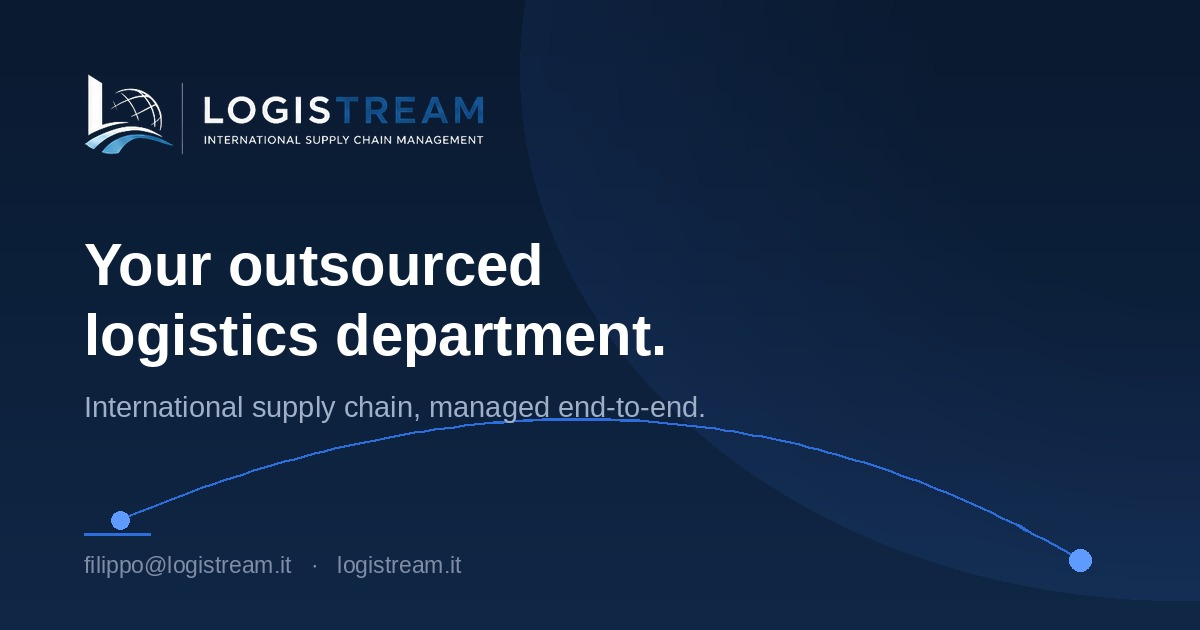
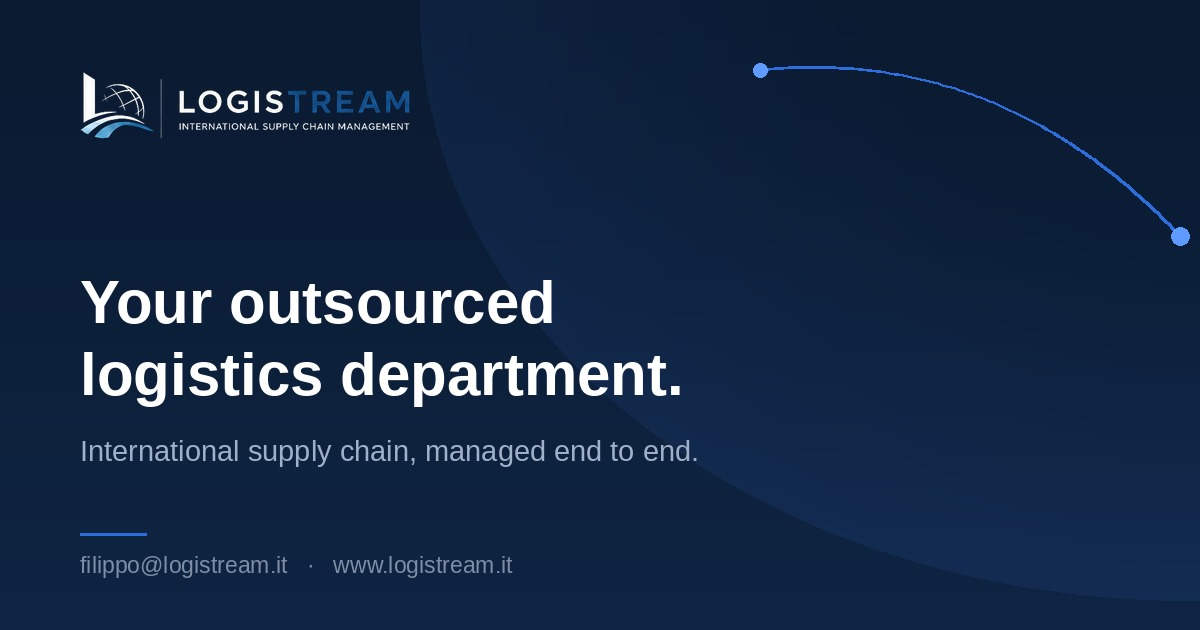
Aggiornamento sito

diff --git a/index.html b/index.html
@@ -3,8 +3,8 @@
 <head>
   <meta charset="utf-8">
   <meta name="viewport" content="width=device-width, initial-scale=1">
-  <title>Outsourced Logistics Management for SMEs | Logistream</title>
-  <meta name="description" content="Independent international logistics management for SMEs. Supplier coordination, freight procurement and end-to-end supply chain control across ocean, air and road.">
+  <title>Outsourced Logistics Management | Logistream</title>
+  <meta name="description" content="Independent logistics management for importers with many suppliers and no logistics department. Supplier coordination, freight procurement and end-to-end control.">
   <meta property="og:title" content="Logistream | Your Outsourced Logistics Department">
   <meta property="og:description" content="International logistics managed from purchase order to final delivery.">
   <meta property="og:type" content="website">
@@ -31,9 +31,9 @@
   <meta name="author" content="Filippo Barra">
   <link rel="preload" href="assets/fonts/manrope-latin-700-normal.woff2" as="font" type="font/woff2" crossorigin>
   <link rel="preload" href="assets/fonts/dm-sans-latin-400-normal.woff2" as="font" type="font/woff2" crossorigin>
-  <link rel="stylesheet" href="assets/styles.css?v=20260723e">
-  <script defer src="assets/script.js?v=20260723e"></script>
-  <script defer src="assets/analytics.js?v=20260723e"></script>
+  <link rel="stylesheet" href="assets/styles.css?v=20260724b">
+  <script defer src="assets/script.js?v=20260724b"></script>
+  <script defer src="assets/analytics.js?v=20260724b"></script>
 </head>
 <body>
 <header class="site-header" id="top">
@@ -99,7 +99,7 @@
       <div class="section-heading reveal">
         <p class="eyebrow">Focus on your business</p>
         <h2>I'll take care of the logistics.</h2>
-        <p>From supplier coordination to final delivery, I act as your single operational point of contact, making international logistics simpler, more efficient and more predictable.</p>
+        <p>From supplier coordination to final delivery, I act as your single operational point of contact — one person holding together the suppliers, carriers and paperwork that nobody in a small team has time to chase.</p>
         <a class="text-link" href="#process">Discover the process <span>→</span></a>
       </div>
       <div class="service-list reveal">
@@ -174,7 +174,21 @@
 
   <section class="engagement section-soft" id="engagement">
     <div class="container">
-      <div class="section-heading centered reveal"><p class="eyebrow">Working together</p><h2>Three levels of involvement.</h2><p>Every business needs a different amount of support. We agree the scope and the commercial terms in writing before any work starts.</p></div>
+      <div class="section-heading centered reveal"><p class="eyebrow">Working together</p><h2>Three levels of involvement.</h2><p>How much of the function you hand over is up to you. Scope and commercial terms are agreed in writing before any work starts.</p></div>
+
+      <div class="fit reveal">
+        <div>
+          <h3>Is this you?</h3>
+          <p class="fit-lead">The businesses I work with rarely look alike. What they share is a shape, not a sector.</p>
+        </div>
+        <ul>
+          <li>You buy from many suppliers abroad, not one</li>
+          <li>The goods are valuable, fragile or awkward to move</li>
+          <li>Nobody in the company does logistics full time</li>
+          <li>The owner still ends up chasing shipments personally</li>
+        </ul>
+        <p class="fit-note">Furniture and design importers are where I have worked longest, but the pattern repeats in wine and food, lighting, stone and ceramics, fashion, and machinery parts. If three of the four lines above describe you, we should talk.</p>
+      </div>
 
       <div class="tier-cards reveal">
         <article class="tier">
@@ -182,7 +196,7 @@
             <h3>Supply chain audit</h3>
             <span class="tier-meter" role="img" aria-label="Involvement: light"><i class="on"></i><i></i><i></i></span>
           </div>
-          <p class="tier-for">For businesses that suspect they are overpaying but cannot prove it.</p>
+          <p class="tier-for">For importers who suspect they are overpaying across a spread of suppliers, but cannot prove it.</p>
           <ul>
             <li>Review of current freight costs, routes and forwarders</li>
             <li>Rates benchmarked against the market</li>
@@ -196,7 +210,7 @@
             <h3>Shipment management</h3>
             <span class="tier-meter" role="img" aria-label="Involvement: shared"><i class="on"></i><i class="on"></i><i></i></span>
           </div>
-          <p class="tier-for">For teams that keep logistics in-house but are running out of hours.</p>
+          <p class="tier-for">For small teams handling too many suppliers with nobody assigned to logistics.</p>
           <ul>
             <li>Freight procurement and booking on your behalf</li>
             <li>Supplier follow-up and readiness checks</li>
@@ -210,7 +224,7 @@
             <h3>Full outsourcing</h3>
             <span class="tier-meter" role="img" aria-label="Involvement: full"><i class="on"></i><i class="on"></i><i class="on"></i></span>
           </div>
-          <p class="tier-for">For companies that want logistics off their desk entirely.</p>
+          <p class="tier-for">For owners who want inbound freight off their desk entirely.</p>
           <ul>
             <li>Everything in shipment management</li>
             <li>Single point of contact for suppliers and carriers</li>
@@ -242,7 +256,7 @@
         <p class="eyebrow light">About me</p>
         <h2>Filippo Barra</h2>
         <p class="role">Founder &amp; Logistics Manager</p>
-        <p>I have more than ten years of operational and managerial experience in international logistics across Italy, the United Kingdom and Australia. Today I support small and medium-sized businesses as their outsourced logistics department.</p>
+        <p>I have more than ten years of operational and managerial experience in international logistics across Italy, the United Kingdom and Australia. Today I support companies that import and export as their outsourced logistics department.</p>
         <p>I work directly with suppliers, freight forwarders and internal teams to make sure every shipment moves with the right balance of cost, speed and reliability.</p>
         <div class="about-stats"><div><strong>10+</strong><span>years experience</span></div><div><strong>3</strong><span>countries</span></div><div><strong>EU ↔ AU</strong><span>main trade lane</span></div><div><strong>CCO</strong><span>CargoWise certified</span></div></div>
         <a class="outline-btn" href="https://www.linkedin.com/in/filippo-barra/" target="_blank" rel="noopener">View experience on LinkedIn <span>in</span></a>
@@ -284,7 +298,7 @@
       "@id": "https://www.logistream.it/#business",
       "name": "Logistream",
       "url": "https://www.logistream.it/",
-      "description": "Independent international logistics management for small and medium businesses: supplier coordination, freight procurement and end-to-end supply chain control.",
+      "description": "Independent international logistics management for companies without an in-house logistics function: supplier coordination, freight procurement and end-to-end supply chain control.",
       "email": "[email redacted]",
       "image": "https://www.logistream.it/assets/og-en.jpg",
       "logo": "https://www.logistream.it/assets/logistream-logo.png",

diff --git a/it/index.html b/it/index.html
@@ -3,8 +3,8 @@
 <head>
   <meta charset="utf-8">
   <meta name="viewport" content="width=device-width, initial-scale=1">
-  <title>Gestione logistica in outsourcing per PMI | Logistream</title>
-  <meta name="description" content="Gestione logistica internazionale indipendente per PMI. Coordinamento fornitori, acquisto trasporti e controllo della supply chain via mare, aria e strada.">
+  <title>Gestione logistica in outsourcing | Logistream</title>
+  <meta name="description" content="Gestione logistica indipendente per chi importa da molti fornitori e non ha un reparto logistica. Coordinamento fornitori, acquisto trasporti e controllo end-to-end.">
   <meta property="og:title" content="Logistream | Il tuo reparto logistica in outsourcing">
   <meta property="og:description" content="Logistica internazionale gestita dall'ordine di acquisto alla consegna finale.">
   <meta property="og:type" content="website">
@@ -31,9 +31,9 @@
   <meta name="author" content="Filippo Barra">
   <link rel="preload" href="../assets/fonts/manrope-latin-700-normal.woff2" as="font" type="font/woff2" crossorigin>
   <link rel="preload" href="../assets/fonts/dm-sans-latin-400-normal.woff2" as="font" type="font/woff2" crossorigin>
-  <link rel="stylesheet" href="../assets/styles.css?v=20260723e">
-  <script defer src="../assets/script.js?v=20260723e"></script>
-  <script defer src="../assets/analytics.js?v=20260723e"></script>
+  <link rel="stylesheet" href="../assets/styles.css?v=20260724b">
+  <script defer src="../assets/script.js?v=20260724b"></script>
+  <script defer src="../assets/analytics.js?v=20260724b"></script>
 </head>
 <body>
 
@@ -100,7 +100,7 @@
       <div class="section-heading reveal">
         <p class="eyebrow">Tu pensa al business</p>
         <h2>Alla logistica ci penso io.</h2>
-        <p>Dal coordinamento dei fornitori alla consegna finale, sono il tuo unico riferimento operativo: la logistica internazionale diventa più semplice, più efficiente e più prevedibile.</p>
+        <p>Dal coordinamento dei fornitori alla consegna finale, sono il tuo unico riferimento operativo: una persona che tiene insieme fornitori, vettori e documenti, cioè quello che in una squadra piccola nessuno ha il tempo di rincorrere.</p>
         <a class="text-link" href="#process">Scopri il processo <span>→</span></a>
       </div>
       <div class="service-list reveal">
@@ -175,7 +175,21 @@
 
   <section class="engagement section-soft" id="engagement">
     <div class="container">
-      <div class="section-heading centered reveal"><p class="eyebrow">Come collaboriamo</p><h2>Tre livelli di coinvolgimento.</h2><p>Ogni azienda ha bisogno di un supporto diverso. Perimetro e condizioni economiche si definiscono per iscritto prima di iniziare.</p></div>
+      <div class="section-heading centered reveal"><p class="eyebrow">Come collaboriamo</p><h2>Tre livelli di coinvolgimento.</h2><p>Quanta parte della funzione affidarmi lo decidi tu. Perimetro e condizioni economiche si definiscono per iscritto prima di iniziare.</p></div>
+
+      <div class="fit reveal">
+        <div>
+          <h3>Ti riconosci?</h3>
+          <p class="fit-lead">Le aziende con cui lavoro si somigliano poco fra loro. Quello che hanno in comune è una forma, non un settore.</p>
+        </div>
+        <ul>
+          <li>Acquisti da molti fornitori esteri, non da uno solo</li>
+          <li>La merce ha valore, è fragile o difficile da movimentare</li>
+          <li>In azienda nessuno si occupa di logistica a tempo pieno</li>
+          <li>Alla fine è il titolare a rincorrere le spedizioni</li>
+        </ul>
+        <p class="fit-note">Gli importatori di arredo e design sono il settore in cui ho lavorato più a lungo, ma lo schema si ripete nel vino e nel food, nell’illuminazione, nella pietra e nella ceramica, nella moda e nella componentistica. Se tre righe su quattro ti descrivono, vale la pena parlarne.</p>
+      </div>
 
       <div class="tier-cards reveal">
         <article class="tier">
@@ -183,7 +197,7 @@
             <h3>Audit della supply chain</h3>
             <span class="tier-meter" role="img" aria-label="Coinvolgimento: leggero"><i class="on"></i><i></i><i></i></span>
           </div>
-          <p class="tier-for">Per chi sospetta di pagare troppo, ma non riesce a dimostrarlo.</p>
+          <p class="tier-for">Per chi sospetta di pagare troppo su una pluralità di fornitori, ma non riesce a dimostrarlo.</p>
           <ul>
             <li>Analisi di costi, rotte e spedizionieri attuali</li>
             <li>Tariffe confrontate con i valori di mercato</li>
@@ -197,7 +211,7 @@
             <h3>Gestione spedizioni</h3>
             <span class="tier-meter" role="img" aria-label="Coinvolgimento: condiviso"><i class="on"></i><i class="on"></i><i></i></span>
           </div>
-          <p class="tier-for">Per i team che tengono la logistica in casa ma non hanno più ore a disposizione.</p>
+          <p class="tier-for">Per squadre piccole con troppi fornitori e nessuno assegnato alla logistica.</p>
           <ul>
             <li>Acquisto trasporti e booking per tuo conto</li>
             <li>Follow-up fornitori e verifica merce pronta</li>
@@ -211,7 +225,7 @@
             <h3>Outsourcing completo</h3>
             <span class="tier-meter" role="img" aria-label="Coinvolgimento: totale"><i class="on"></i><i class="on"></i><i class="on"></i></span>
           </div>
-          <p class="tier-for">Per le aziende che vogliono togliersi la logistica dalla scrivania.</p>
+          <p class="tier-for">Per i titolari che vogliono togliersi dalla scrivania le merci in arrivo.</p>
           <ul>
             <li>Tutto quello incluso nella gestione spedizioni</li>
             <li>Unico punto di contatto per fornitori e vettori</li>
@@ -243,7 +257,7 @@
         <p class="eyebrow light">Chi sono</p>
         <h2>Filippo Barra</h2>
         <p class="role">Fondatore e responsabile logistica</p>
-        <p>Ho più di dieci anni di esperienza operativa e manageriale nella logistica internazionale, fra Italia, Regno Unito e Australia. Oggi affianco le piccole e medie imprese come loro reparto logistica in outsourcing.</p>
+        <p>Ho più di dieci anni di esperienza operativa e manageriale nella logistica internazionale, fra Italia, Regno Unito e Australia. Oggi affianco le le aziende che importano ed esportano come loro reparto logistica in outsourcing.</p>
         <p>Lavoro direttamente con fornitori, spedizionieri e team interni per far sì che ogni spedizione trovi il giusto equilibrio fra costo, velocità e affidabilità.</p>
         <div class="about-stats"><div><strong>10+</strong><span>anni di esperienza</span></div><div><strong>3</strong><span>paesi</span></div><div><strong>EU ↔ AU</strong><span>trade lane principale</span></div><div><strong>CCO</strong><span>certificato CargoWise</span></div></div>
         <a class="outline-btn" href="https://www.linkedin.com/in/filippo-barra/" target="_blank" rel="noopener">Guarda il profilo su LinkedIn <span>in</span></a>
@@ -285,7 +299,7 @@
       "@id": "https://www.logistream.it/#business",
       "name": "Logistream",
       "url": "https://www.logistream.it/",
-      "description": "Gestione logistica internazionale indipendente per piccole e medie imprese: coordinamento fornitori, acquisto trasporti e controllo della supply chain end-to-end.",
+      "description": "Gestione logistica internazionale indipendente per aziende senza una funzione logistica interna: coordinamento fornitori, acquisto trasporti e controllo della supply chain end-to-end.",
       "email": "[email redacted]",
       "image": "https://www.logistream.it/assets/og-it.jpg",
       "logo": "https://www.logistream.it/assets/logistream-logo.png",

diff --git a/assets/styles.css b/assets/styles.css
@@ -144,3 +144,14 @@
 .author-box a{font:600 .8rem 'Manrope',sans-serif;color:var(--blue);border-bottom:1px solid rgba(57,123,232,.32);padding-bottom:2px}
 .author-box a:hover{border-color:var(--blue)}
 @media(max-width:640px){.author-box{flex-direction:column;gap:16px;padding:22px}}
+
+/* --- "Is this you?" qualifier --- */
+.fit{background:#fff;border:1px solid var(--line);border-radius:var(--radius);padding:34px 36px;margin:0 0 40px;display:grid;grid-template-columns:minmax(220px,.85fr) 1.15fr;gap:28px 44px;align-items:start;box-shadow:0 9px 25px rgba(21,47,82,.05)}
+.fit h3{margin:6px 0 10px;font-size:1.24rem}
+.fit .fit-lead{color:var(--muted);font-size:.93rem;margin:0}
+.fit ul{list-style:none;margin:0;padding:0;display:grid;gap:12px}
+.fit li{position:relative;padding-left:30px;font-size:.95rem;line-height:1.5}
+.fit li:before{content:"";position:absolute;left:0;top:.15em;width:19px;height:19px;border-radius:5px;border:1.5px solid var(--blue);background:linear-gradient(135deg,rgba(69,136,244,.14),rgba(108,166,255,.10))}
+.fit li:after{content:"";position:absolute;left:6px;top:.45em;width:7px;height:4px;border-left:2px solid var(--blue);border-bottom:2px solid var(--blue);transform:rotate(-45deg)}
+.fit .fit-note{grid-column:1/-1;margin:4px 0 0;padding-top:20px;border-top:1px solid var(--line);font-size:.87rem;color:var(--muted)}
+@media(max-width:820px){.fit{grid-template-columns:1fr;padding:26px 24px}}

diff --git a/it/guida-spedizioni.html b/it/guida-spedizioni.html
@@ -29,9 +29,9 @@
   <link rel="apple-touch-icon" href="../assets/apple-touch-icon.png">
   <link rel="preload" href="../assets/fonts/manrope-latin-700-normal.woff2" as="font" type="font/woff2" crossorigin>
   <link rel="preload" href="../assets/fonts/dm-sans-latin-400-normal.woff2" as="font" type="font/woff2" crossorigin>
-  <link rel="stylesheet" href="../assets/styles.css?v=20260723e">
-  <script defer src="../assets/script.js?v=20260723e"></script>
-  <script defer src="../assets/analytics.js?v=20260723e"></script>
+  <link rel="stylesheet" href="../assets/styles.css?v=20260724b">
+  <script defer src="../assets/script.js?v=20260724b"></script>
+  <script defer src="../assets/analytics.js?v=20260724b"></script>
 </head>
 <body>
 

diff --git a/shipping-guide.html b/shipping-guide.html
@@ -29,9 +29,9 @@
   <link rel="apple-touch-icon" href="assets/apple-touch-icon.png">
   <link rel="preload" href="assets/fonts/manrope-latin-700-normal.woff2" as="font" type="font/woff2" crossorigin>
   <link rel="preload" href="assets/fonts/dm-sans-latin-400-normal.woff2" as="font" type="font/woff2" crossorigin>
-  <link rel="stylesheet" href="assets/styles.css?v=20260723e">
-  <script defer src="assets/script.js?v=20260723e"></script>
-  <script defer src="assets/analytics.js?v=20260723e"></script>
+  <link rel="stylesheet" href="assets/styles.css?v=20260724b">
+  <script defer src="assets/script.js?v=20260724b"></script>
+  <script defer src="assets/analytics.js?v=20260724b"></script>
 </head>
 <body>
 